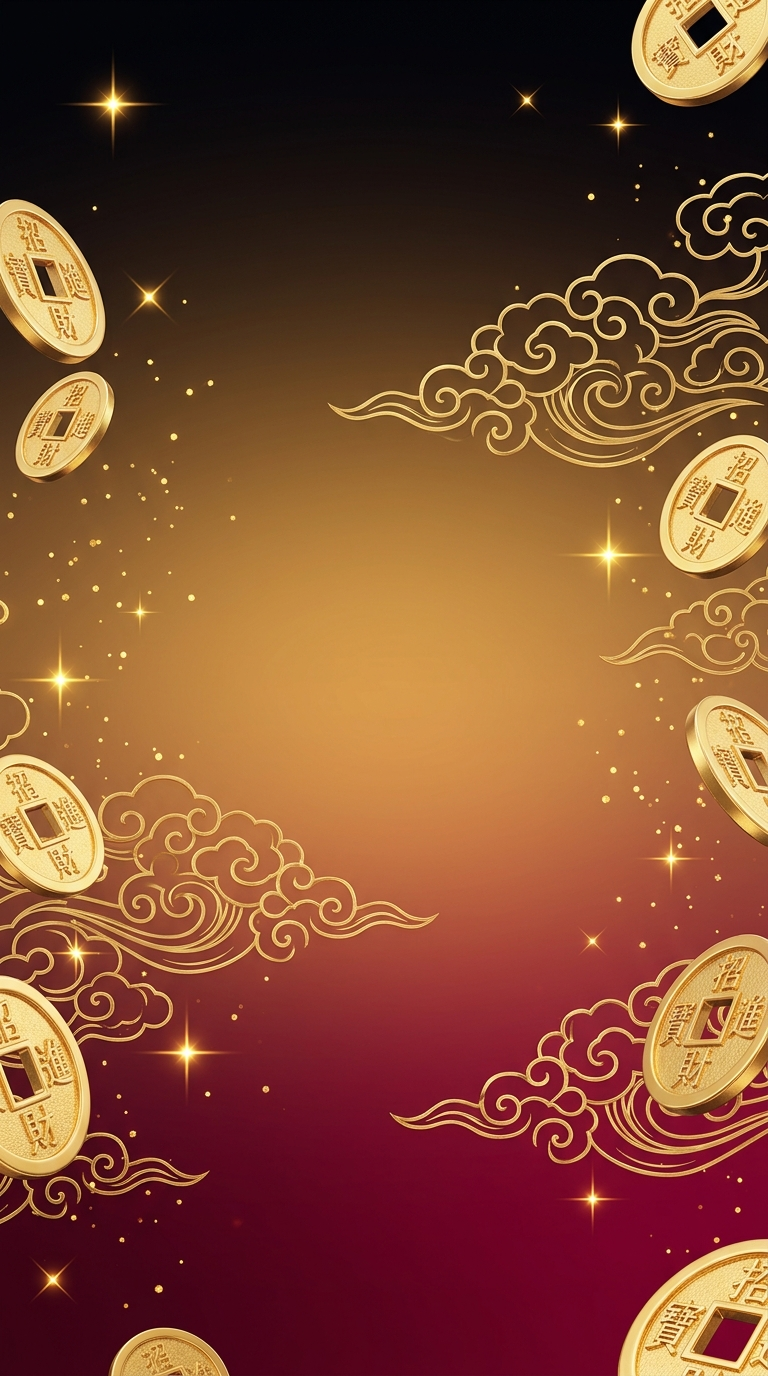
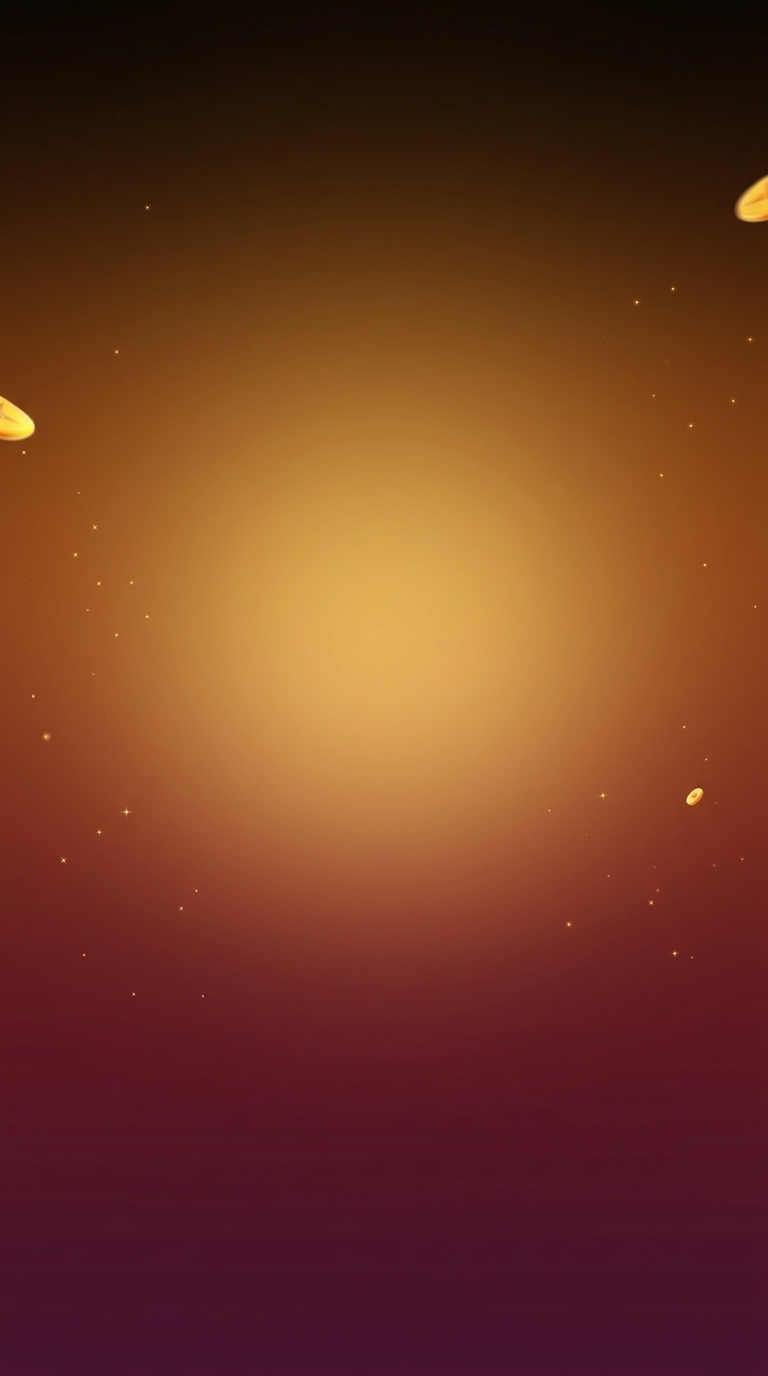
feat: authentic original video background, removed header/footer/side buttons, centered scratch CTA

diff --git a/index.html b/index.html
@@ -41,13 +41,6 @@
     <!-- Clean Dark Festive Background Poster (No text, No icons) -->
     <img class="stage-bg-poster" src="images/bg.png" alt="Background" />
 
-    <!-- Top Navigation Header -->
-    <header class="nav-header">
-      <button class="nav-btn" aria-label="Back" onclick="window.history.back()">❮</button>
-      <div class="nav-title">818理财节</div>
-      <button class="nav-btn music-btn" id="music-toggle-btn" aria-label="Toggle Festive Music" title="音乐开关">🎵</button>
-    </header>
-
     <!-- Animated Hero Gods Section (Preserves authentic waving/floating coin animation) -->
     <div class="hero-gods-section">
       <video class="hero-gods-video" id="hero-gods-video" autoplay loop muted playsinline>
@@ -79,25 +72,12 @@
       </div>
     </section>
 
-    <!-- Action Controls (My Prizes, Click Me To Scratch, Welfare Pack) -->
+    <!-- Action Controls (Center Scratch Button) -->
     <div class="controls-row">
-      <div class="btn-pill btn-prize-pill" id="btn-my-prize" title="我的奖品" role="button">
-        <img src="images/clean_btn_prize.png" alt="我的奖品" />
-      </div>
-
       <div class="btn-pill btn-scratch-center" id="btn-auto-scratch" title="点我刮开" role="button">
         <img src="images/clean_btn_scratch.png" alt="点我刮开" />
         <div class="shimmer-sweep"></div>
       </div>
-
-      <div class="btn-pill btn-welfare-pill" id="btn-welfare" title="年中福利包" role="button">
-        <img src="images/clean_btn_welfare.png" alt="年中福利包" />
-      </div>
-    </div>
-
-    <!-- Bottom Promotional Card (Clean 3D Event Banner) -->
-    <div class="bottom-promo-card" id="bottom-promo-card" role="button" title="新年利是红包活动">
-      <img src="images/bottom_card_pro.png" alt="新年利是红包活动" />
     </div>
 
     <!-- Particle Shavings Container -->

diff --git a/css/style.css b/css/style.css
@@ -113,10 +113,10 @@ html, body {
 /* Animated Hero Gods Section */
 .hero-gods-section {
   position: absolute;
-  top: 50px;
+  top: 16px;
   left: 0;
   width: 100%;
-  height: 25.5%;
+  height: 27%;
   overflow: hidden;
   display: flex;
   align-items: center;
@@ -385,43 +385,36 @@ html, body {
   100% { transform: translate(var(--dx), var(--dy)) scale(0); opacity: 0; }
 }
 
-/* Action Controls Row (77.8% from top) */
+/* Action Controls Row - Centered Main Scratch Button */
 .controls-row {
   position: absolute;
-  top: 77.8%;
+  top: 79%;
   left: 0;
   width: 100%;
-  height: 8.8%;
+  height: 9.5%;
   z-index: 15;
   display: flex;
   align-items: center;
-  justify-content: space-between;
-  padding: 0 3%;
+  justify-content: center;
+  padding: 0 4%;
 }
 
 .btn-pill {
   position: relative;
-  height: 70%;
   cursor: pointer;
   transition: transform 0.15s ease;
   display: flex;
   align-items: center;
+  justify-content: center;
 }
 
 .btn-pill:active {
   transform: scale(0.94);
 }
 
-.btn-prize-pill {
-  width: 19%;
-}
-
-.btn-welfare-pill {
-  width: 19%;
-}
-
 .btn-scratch-center {
-  width: 54%;
+  width: 65%;
+  height: 100%;
   position: relative;
   display: flex;
   align-items: center;
